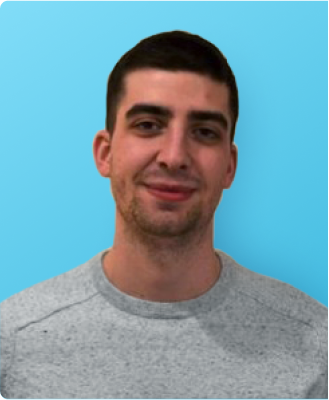
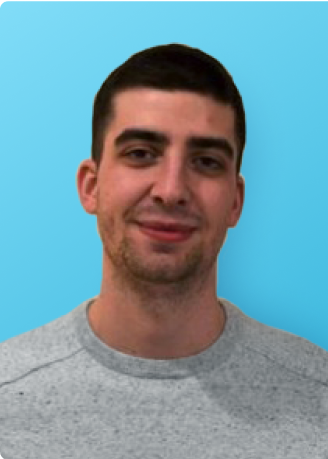
fix: team members card padding; refactor: photos with correct sizes

diff --git a/src/views/mission/components/TeamMemberCard.tsx b/src/views/mission/components/TeamMemberCard.tsx
@@ -16,9 +16,10 @@ type TeamMemberCardProps = {
   photo: string;
   country: string;
 };
+
 const IMG_SIZES = {
-  w: 164,
-  h: 229,
+  w: '10.25rem',
+  h: '14.3125rem',
 };
 
 const TeamMemberCard: FunctionComponent<TeamMemberCardProps> = ({
@@ -30,7 +31,7 @@ const TeamMemberCard: FunctionComponent<TeamMemberCardProps> = ({
   country,
 }) => (
   <Flex position="relative" maxW="xl" w="full" borderRadius="4px" margin="0 auto" overflow="hidden">
-    <Box w={{ base: '126px', sm: `${IMG_SIZES.w}px` }} h={`${IMG_SIZES.h}px`} position="relative">
+    <Box w={{ base: '7.875rem', sm: IMG_SIZES.w }} h={IMG_SIZES.h} position="relative">
       <ImageWithPlaceholder
         src={`/team/${photo}`}
         alt={`${name} photo`}
@@ -47,12 +48,12 @@ const TeamMemberCard: FunctionComponent<TeamMemberCardProps> = ({
     <Box
       flex={1}
       px={{ base: 4, lg: 6 }}
-      py={6}
+      py={4}
       borderWidth="1px"
       border="gray.50"
       borderLeft={0}
       borderRightRadius="4px"
-      maxH={`${IMG_SIZES.h}px`}
+      maxH={IMG_SIZES.h}
       overflowY="auto"
       position="relative"
     >

diff --git a/src/consts/team.ts b/src/consts/team.ts
@@ -7,11 +7,11 @@ export const CATEGORIES = {
 export const MEMBERS = [
   {
     name: 'Mrinal',
-    surname: 'Wadwha',
+    surname: 'Wadhwa',
     position: 'CTO',
     categories: [CATEGORIES.FULL_TIME_MEMBERS],
     country: 'US',
-    photo: 'mrinal-wadwha.png',
+    photo: 'mrinal-wadhwa.png',
     description: 'Loves rock-n-roll and has a dog named Sargent Pepper',
   },
   {
